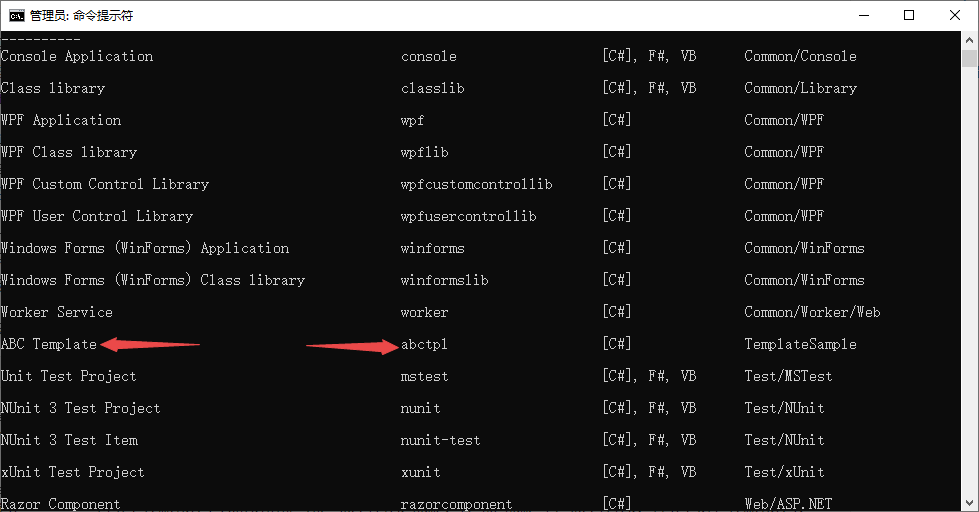
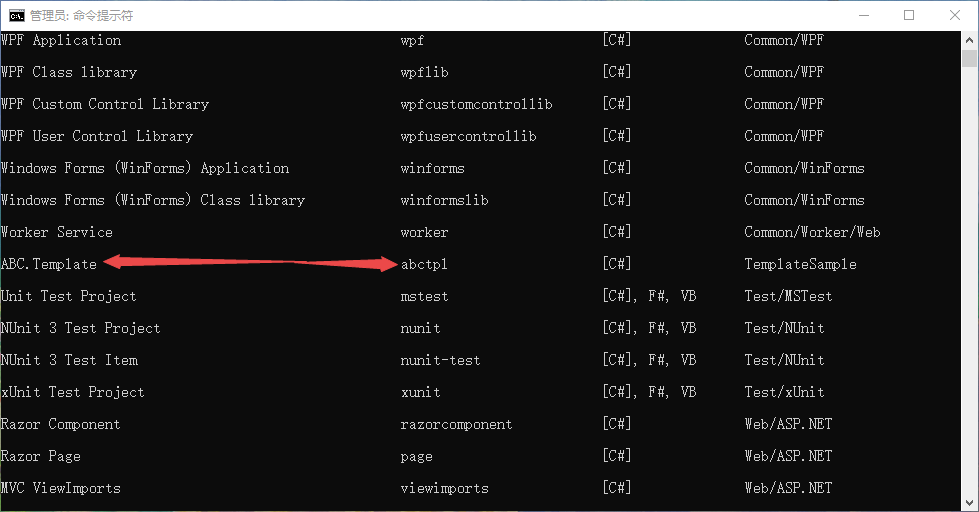
Update README and ScreenShots.

diff --git a/README.md b/README.md
@@ -18,20 +18,17 @@ The sample has two projects which mainly contains an `ITemplateLogService` and a
 
 1. Clone this repository and open the solution with Visual Studio;
 
-2. Copy the directory path. For example, in my computer it is '*G:\Code Repos\LeaFrock\ABC.Template*';
+2. Copy the directory path. For example, in my computer it is '*G:\Code Repos\LeaFrock\ABC.Template\Source*';
 
 3. Open the **CMD** of Windows, and `CD` into the directory;
-
-![avatar](https://github.com/LeaFrock/ABC.Template/blob/master/ScreenShots/2.png)
+![avatar](https://github.com/LeaFrock/ABC.Template/blob/master/ScreenShots/3.png)
 
 4. Execute the command line, `dotnet new -i .\`. Then you'll see that the template is installed;
-
 ![avatar](https://github.com/LeaFrock/ABC.Template/blob/master/ScreenShots/4.png)
 
 5. Create the directory which is the path of your new solution, such as '*G:\Code Repos\TemplateTest*'. And `CD` into it with **CMD**.
 
 6. Execute the command line, `dotnet new abctpl -n Exception`. Then you'll see that new solution is created.
-
 ![avatar](https://github.com/LeaFrock/ABC.Template/blob/master/ScreenShots/6.png)
 
-7. To uninstall the template, use the command line, `dotnet new -u <AbsolutePathOfTemplate>`. For me, it's `dotnet new -u "G:\Code Repos\LeaFrock\ABC.Template"`.
+7. To uninstall the template, use the command line, `dotnet new -u <AbsolutePathOfTemplate>`. For me, it's `dotnet new -u "G:\Code Repos\LeaFrock\ABC.Template\Source"`.
